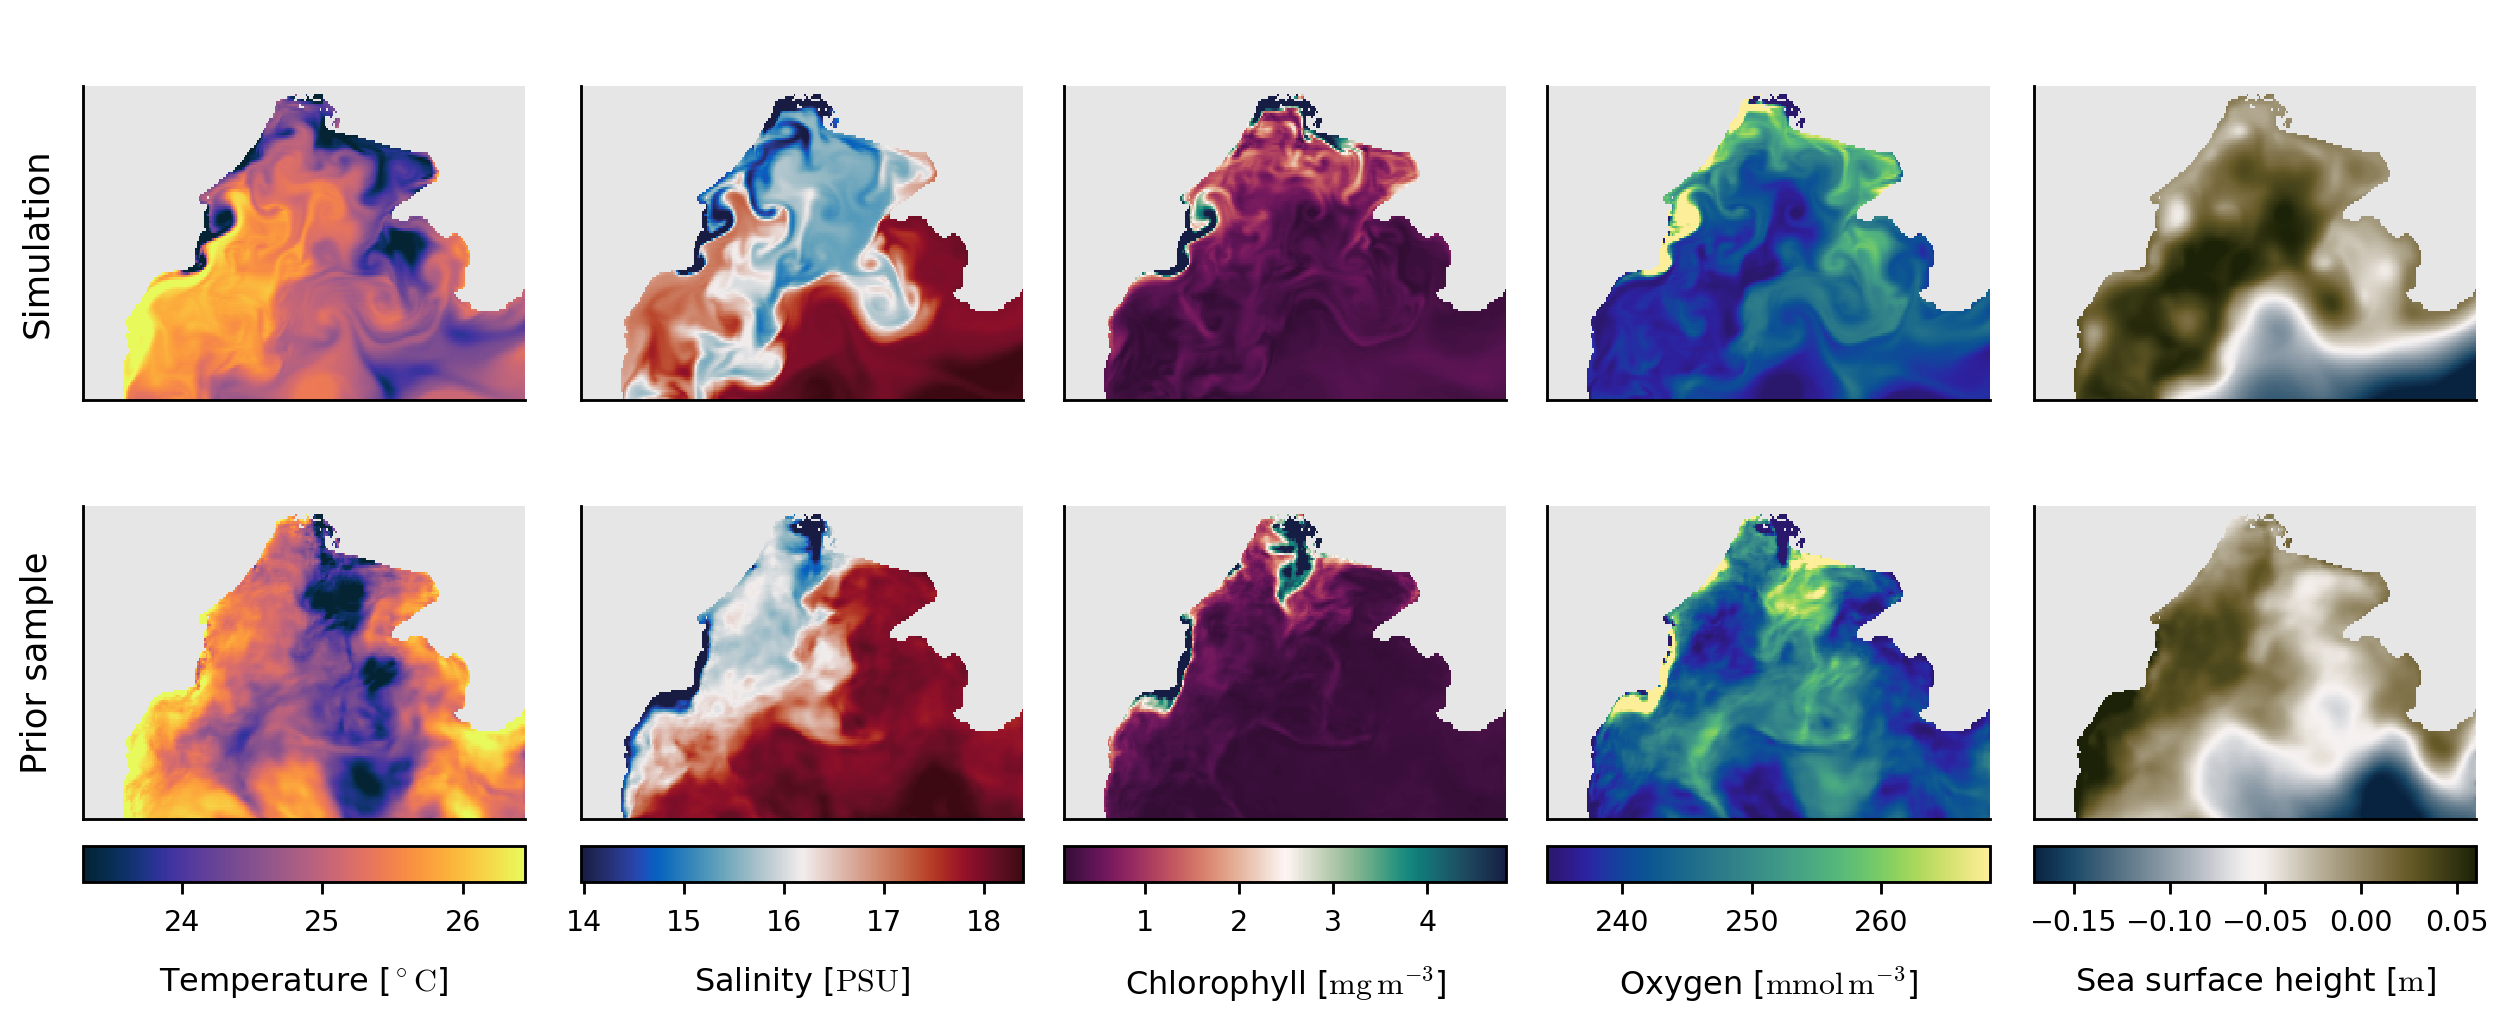
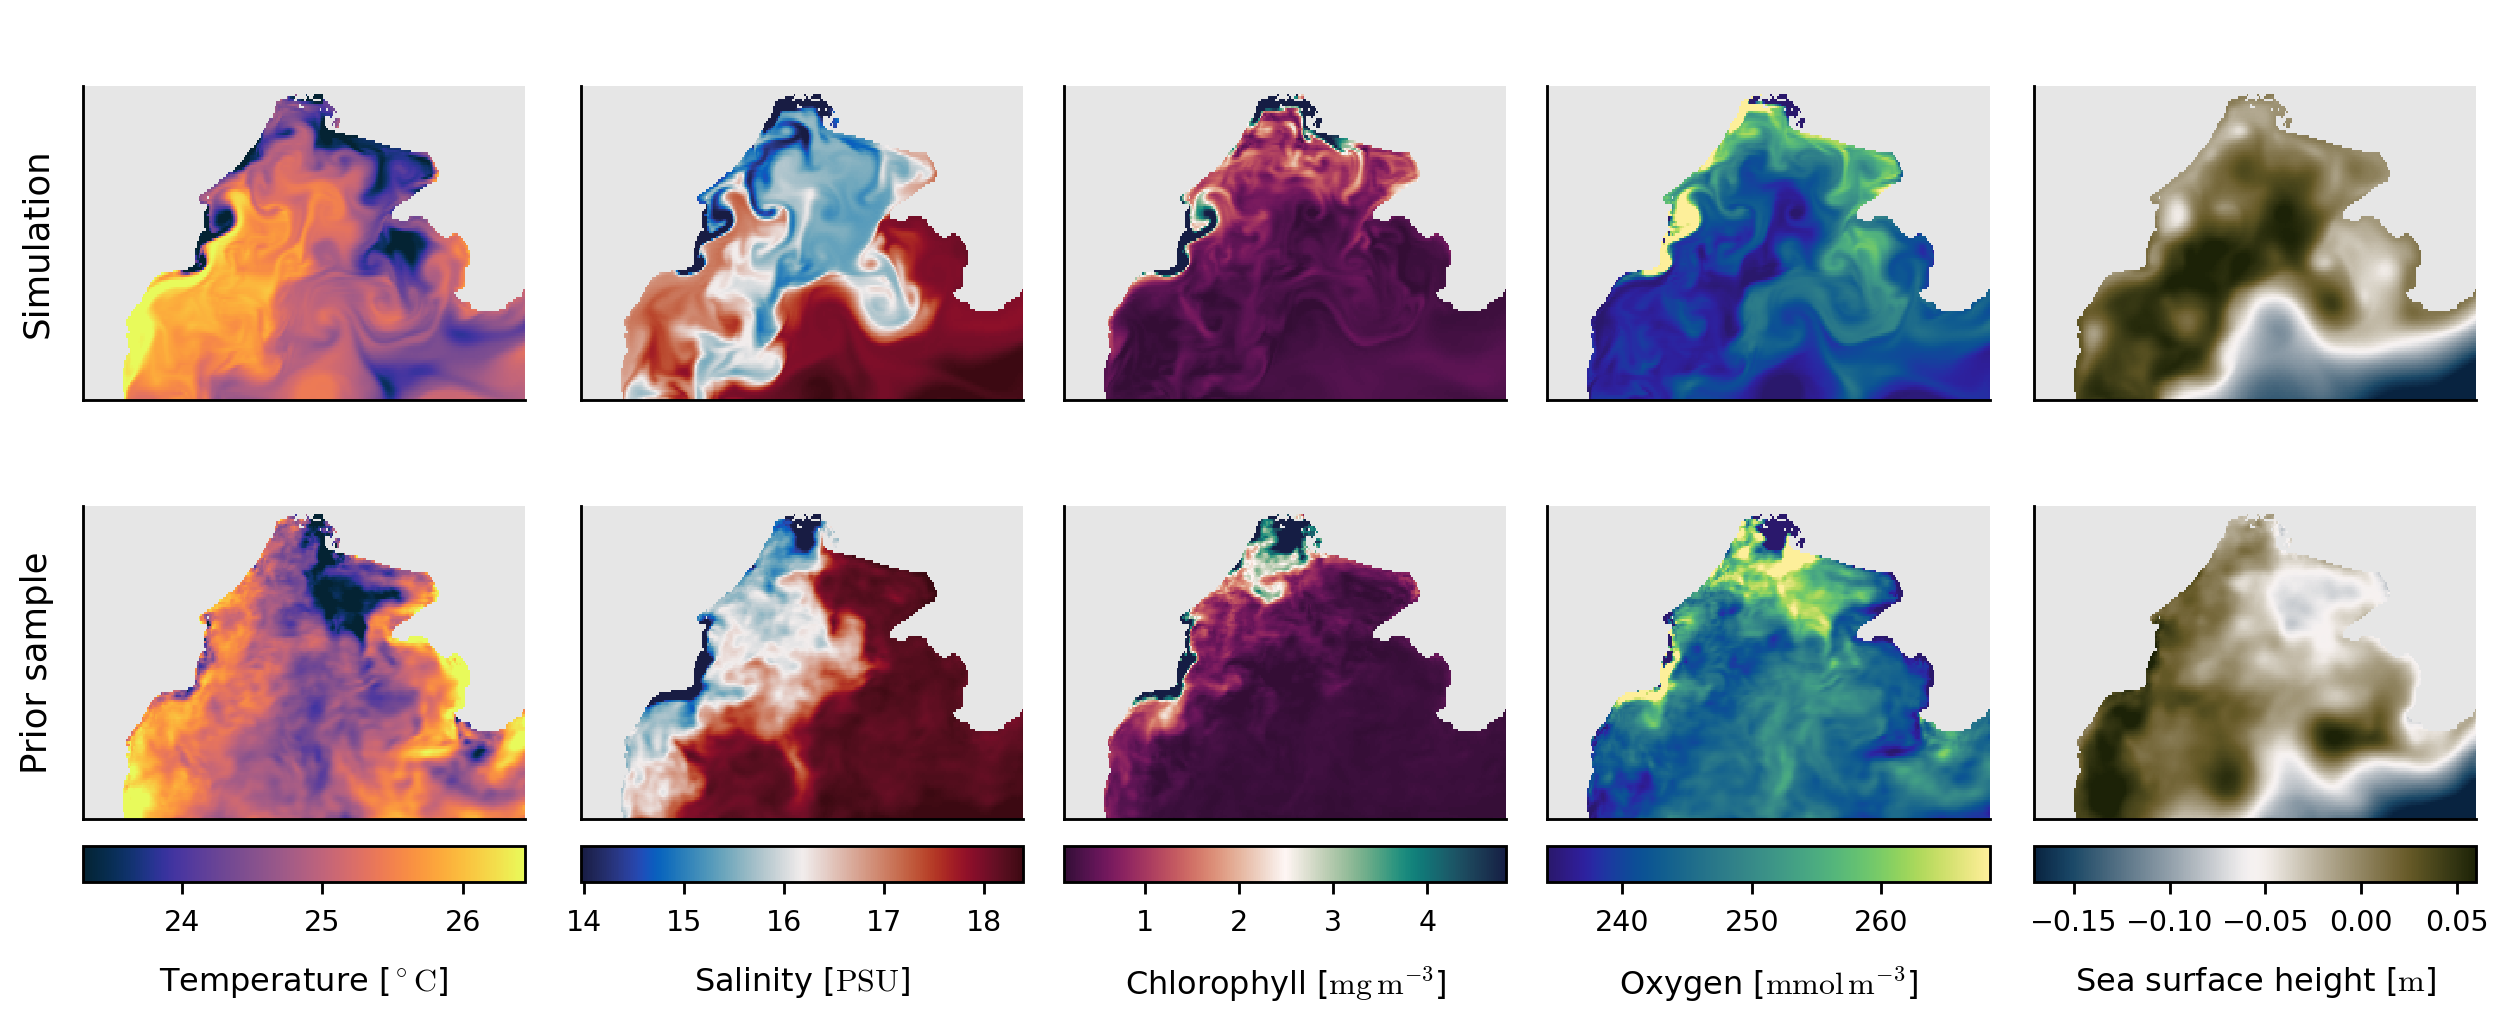
📝 Talks - Poseidon: prior samples at the end of the training

Changed region(s): [[0.622, 0.5, 0.9952, 0.8125], [0.2488, 0.5, 0.5598, 0.8125], [0.0311, 0.5, 0.2177, 0.8125]]

diff --git a/talks/2026-11-13-progress-meeting/talk.html b/talks/2026-11-13-progress-meeting/talk.html
@@ -318,13 +318,13 @@ University of Liège<sup>3</sup>, New York University<sup>4</sup>.
 </section>
 </foreignObject></svg><svg data-marpit-svg="" viewBox="0 0 1280 720"><foreignObject width="1280" height="720"><section id="42" data-paginate="true" data-class="result" data-theme="reef" data-lang="en" lang="en" class="result" data-marpit-pagination="41" style="--paginate:true;--class:result;--theme:reef;--lang:en;" data-marpit-pagination-total="45"><div class="fig">
 <p><img src="figures/poseidon/full-prior.png" alt="" /></p>
-<p><span class="caption"><b>Figure N.</b> Training and validation losses, then validation loss per noise level: the training is in progress (99k of 131k updates).</span></p>
+<p><span class="caption"><b>Figure N.</b> Training and validation losses, then validation loss per noise level: over the whole training (131k updates).</span></p>
 </div>
 <div class="footnote">Note: the validation loss is the denoising loss on 256 fixed days of 2018–2020, at 8 fixed noise levels σ = 10<sup>−5</sup> to 10<sup>2</sup> (the left panel averages them), always with the same noise; the training draws σ at random.</div>
 </section>
 </foreignObject></svg><svg data-marpit-svg="" viewBox="0 0 1280 720"><foreignObject width="1280" height="720"><section id="43" data-paginate="true" data-class="result" data-theme="reef" data-lang="en" lang="en" class="result" data-marpit-pagination="42" style="--paginate:true;--class:result;--theme:reef;--lang:en;" data-marpit-pagination-total="45"><div class="fig">
 <p><img src="figures/poseidon/samples.png" alt="" /></p>
-<p><span class="caption"><b>Figure O.</b> A prior sample at 99k updates for 15 August 2019 (validation), under the simulation of that day.</span></p>
+<p><span class="caption"><b>Figure O.</b> A prior sample at the end of the training for 15 August 2019 (validation), under the simulation of that day.</span></p>
 </div>
 </section>
 </foreignObject></svg><svg data-marpit-svg="" viewBox="0 0 1280 720"><foreignObject width="1280" height="720"><section id="44" data-paginate="true" data-theme="reef" data-lang="en" lang="en" data-marpit-pagination="43" style="--paginate:true;--theme:reef;--lang:en;" data-marpit-pagination-total="45">
